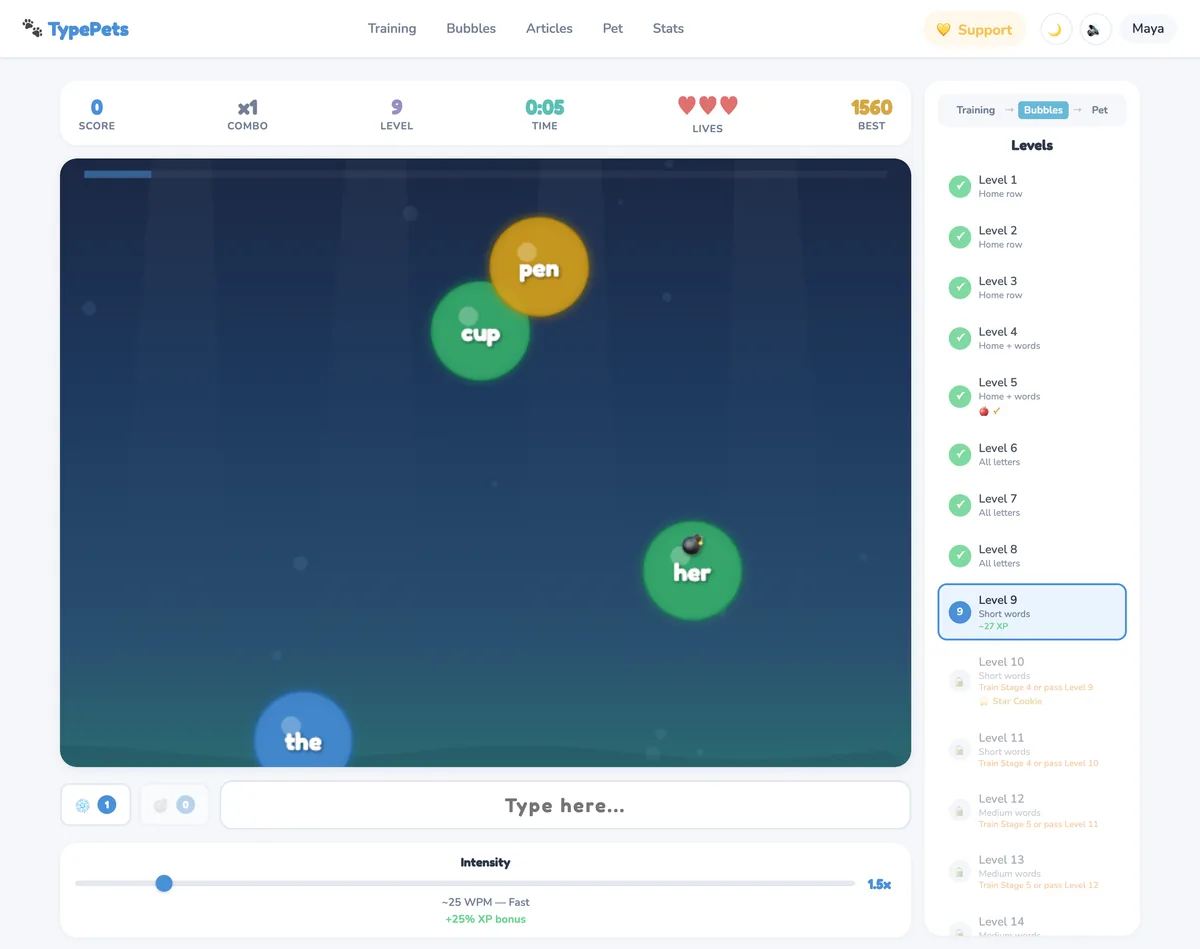
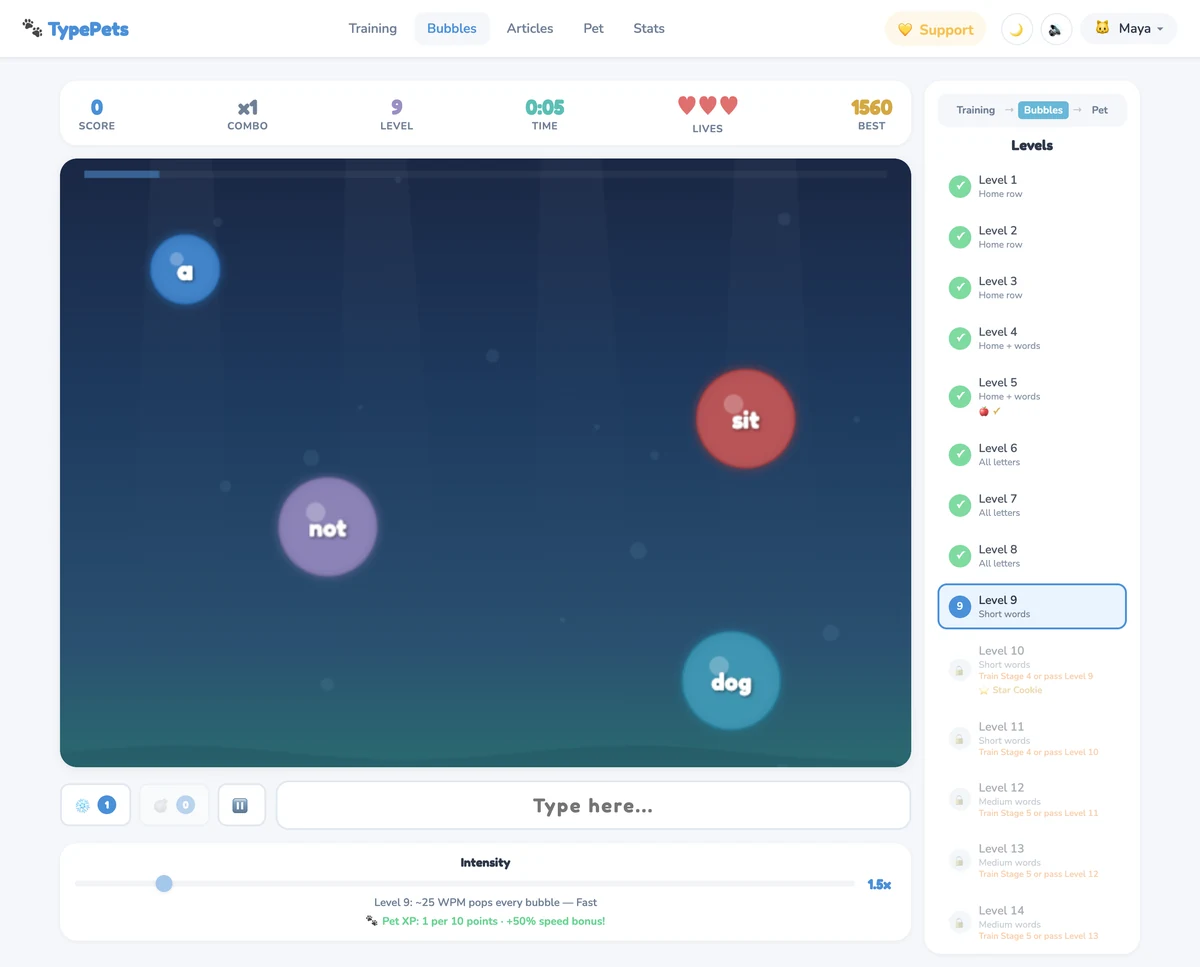
chore: refresh landing screenshots from merged app

diff --git a/index.html b/index.html
@@ -288,7 +288,7 @@
             <div class="showcase-row">
                 <figure class="shot">
                     <div class="shot-bar" aria-hidden="true"><span></span><span></span><span></span></div>
-                    <img src="img/screens/training.webp" width="1200" height="994" loading="lazy" decoding="async"
+                    <img src="img/screens/training.webp" width="1200" height="1036" loading="lazy" decoding="async"
                          alt="TypePets Finger Training: a practice word with the next letter highlighted, a color-coded on-screen keyboard and hand guide showing which finger to use, and live accuracy and speed stats">
                 </figure>
                 <div class="showcase-text">
@@ -306,7 +306,7 @@
             <div class="showcase-row">
                 <figure class="shot">
                     <div class="shot-bar" aria-hidden="true"><span></span><span></span><span></span></div>
-                    <img src="img/screens/bubbles.webp" width="1200" height="949" loading="lazy" decoding="async"
+                    <img src="img/screens/bubbles.webp" width="1200" height="967" loading="lazy" decoding="async"
                          alt="TypePets Bubble Pop: bubbles with short words floating up an underwater scene, with score, combo, lives, a timer, and a list of 20 levels">
                 </figure>
                 <div class="showcase-text">
